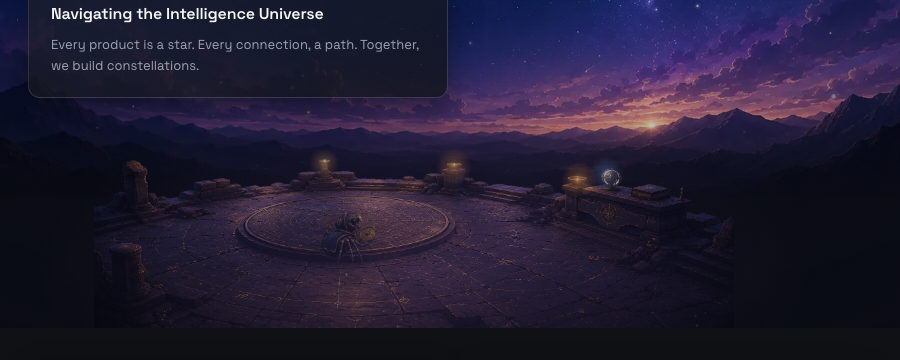
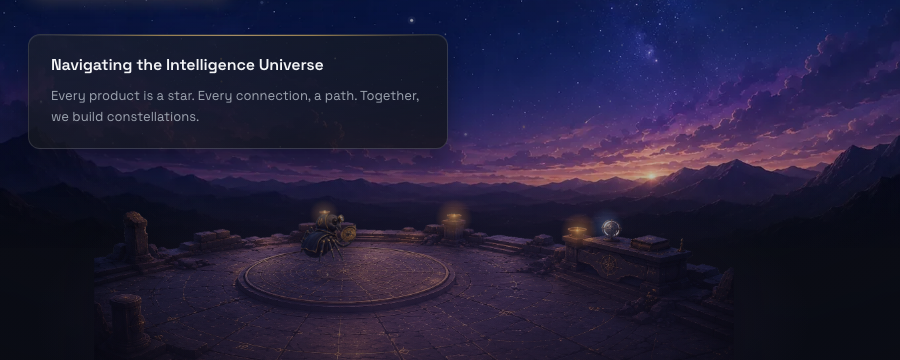
🐛 (hero): Seat the keeper up on the raised platform on tablet/small windows
Per feedback: on tablet-width windows the keeper sat at the dais's front lip,
not on the raised astrolabe platform. Add a 600–996px range that nudges the
keeper up and slightly left onto the platform centre (left:calc(35.6% + 10px),
bottom:13.5% + matching contact shadow). True phones (<600px) keep the centred,
low position from the base rule — the small dais there has no room to lift the
keeper without it floating. Verified live at 430/600/800/950: keeper on the
dais (phone) / on the raised platform (tablet+); desktop untouched; 0 overflow.

Claude-Session: https://claude.ai/code/session_01Dv3niEozAUHTET2z9JSob8

diff --git a/src/components/HeroUniverse/ObserverSpider.module.css b/src/components/HeroUniverse/ObserverSpider.module.css
@@ -61,3 +61,19 @@
     width: min(44px, 8vw);
   }
 }
+
+/* Tablet / small window (≥600px): the dais is large enough to seat the keeper
+   up on the raised astrolabe platform (not at its front lip). Nudge it up and
+   slightly left onto the platform centre. On true phones (<600px) the dais is
+   too small for this — the keeper stays centred on it via the block above. */
+@media (min-width: 600px) and (max-width: 996px) {
+  .keeper {
+    left: calc(35.6% + 10px);
+    bottom: 13.5%;
+  }
+
+  .contactShadow {
+    left: calc(35.6% + 10px);
+    bottom: 13%;
+  }
+}
